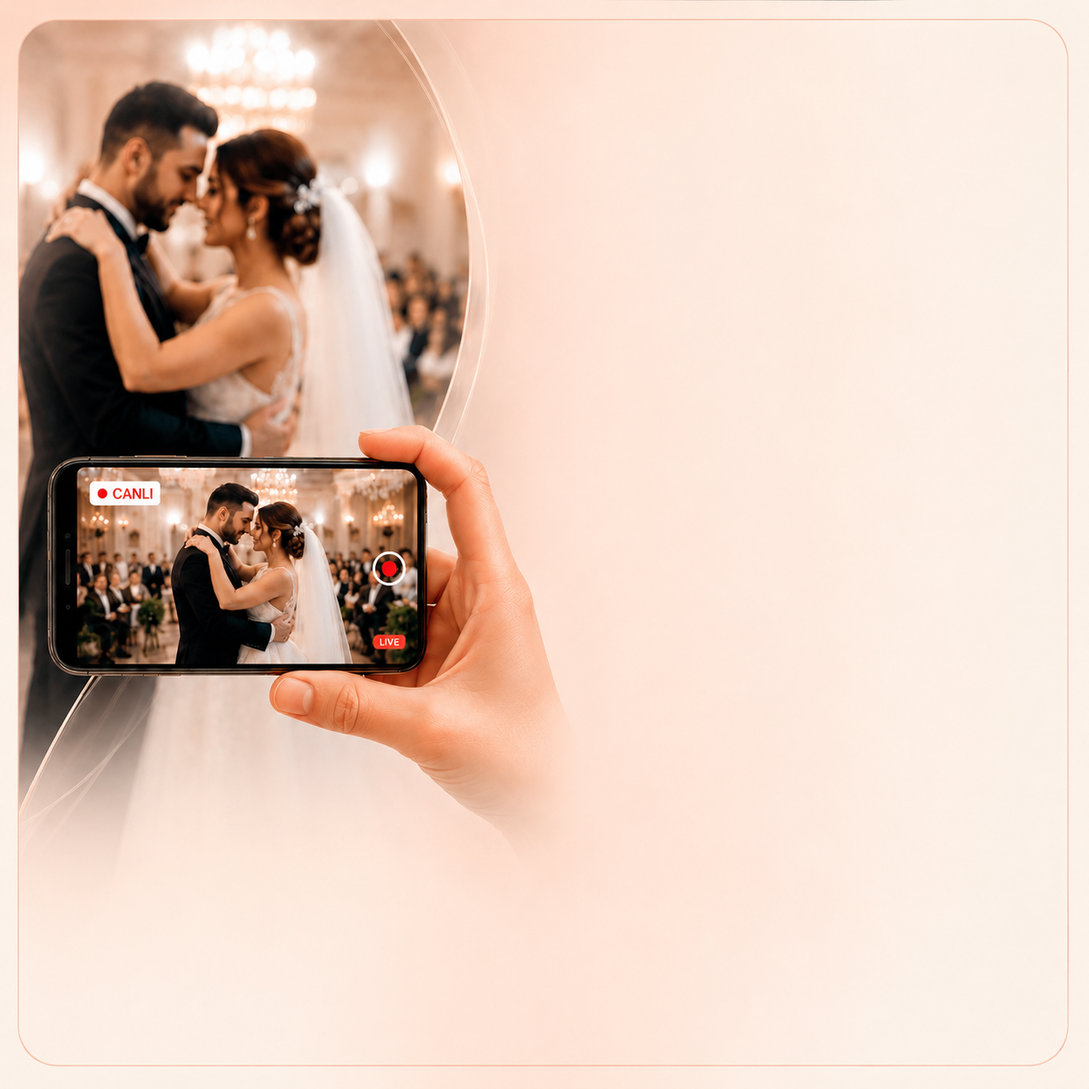
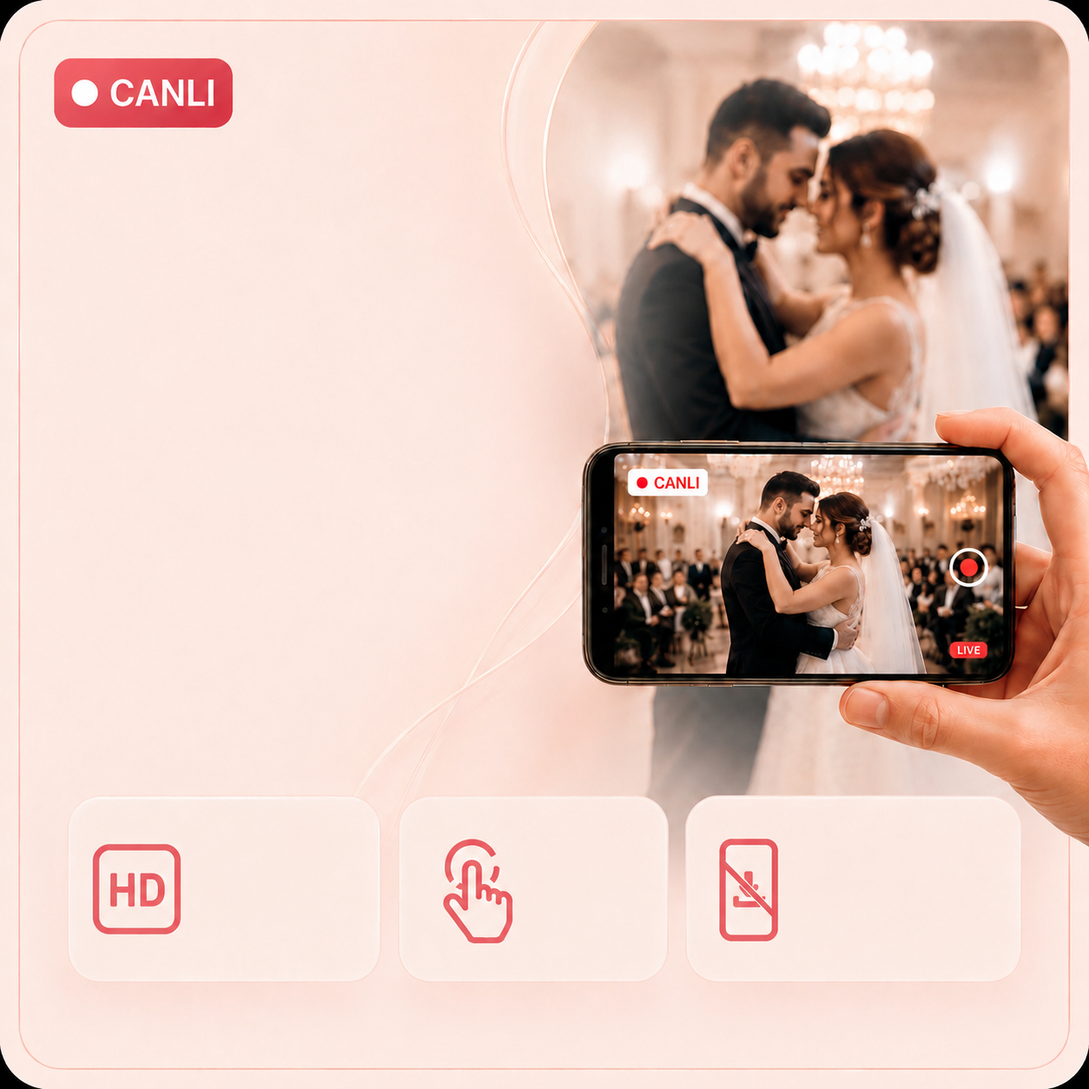
Adim 79: 3 reklam karti hibrit (bg+text) + welcome foto karti redesign + chat widget beyaz
- Canli Yayin / Tebrik / Album kartlari: kare bg PNG + sadece HTML yazi overlay,
  aspect-square + max-w-720 mx-auto, clamp() font ile pozisyon hassas hizali.
- Welcome modal (returning + first-time) foto karti: rose gradient bg, dashed
  buton, lock disclaimer - referans tasarima uygun.
- ChatWidget canli destek butonu: rose gradient -> beyaz pill, Elif yuvarlak +
  yesil online dot sag ust, koyu yazi + chevron arrow.

diff --git a/app/page.tsx b/app/page.tsx
@@ -264,39 +264,59 @@ export default function Home() {
       {/* ÖZELLİK KARTLARI - Altın Toplama + Nikah Albümü */}
       <section className="py-16">
         <div className="max-w-7xl mx-auto px-6 space-y-8">
-          {/* Canlı Yayın - reklam kartı (hibrit: PNG bg + HTML overlay) */}
-          <div className="relative rounded-3xl overflow-hidden" style={{ boxShadow: '0 16px 48px rgba(200,140,140,0.18), 0 4px 14px rgba(0,0,0,0.04)', border: '1px solid rgba(232,180,170,0.25)' }}>
-            {/* Mobil: kare bg (görsel sol, krem alan sağ) */}
-            <img src="/bg-canli-yayin.png" alt="" className="absolute inset-0 w-full h-full object-cover md:hidden pointer-events-none select-none" />
-            {/* Masaüstü: aynı bg, soldan görsel + sağa doğru krem alan uzayacak (object-left) */}
-            <img src="/bg-canli-yayin.png" alt="" className="absolute inset-0 w-full h-full object-cover hidden md:block pointer-events-none select-none" style={{ objectPosition: 'left center' }} />
+          {/* Canlı Yayın - reklam kartı (kare bg + sadece yazı overlay) */}
+          <div className="relative rounded-3xl overflow-hidden mx-auto w-full" style={{ aspectRatio: '1 / 1', maxWidth: '720px', boxShadow: '0 16px 48px rgba(200,140,140,0.18), 0 4px 14px rgba(0,0,0,0.04)', border: '1px solid rgba(232,180,170,0.25)' }}>
+            <img src="/bg-canli-yayin.png" alt="Canlı Yayın ile mutluluğunuzu paylaşın" className="absolute inset-0 w-full h-full object-cover pointer-events-none select-none" />
 
-            <div className="relative grid grid-cols-1 md:grid-cols-[44%_1fr] min-h-[360px] md:min-h-[300px]">
-              <div className="hidden md:block" />
-              <div className="p-5 md:py-10 md:pr-10 md:pl-8 flex flex-col justify-between min-h-[360px] md:min-h-[280px]">
-                <div className="pl-[46%] md:pl-0 pt-3 md:pt-1 text-right md:text-left">
-                  {/* CANLI pill */}
-                  <span className="inline-flex items-center gap-1.5 px-2.5 py-1 rounded-full text-[10px] md:text-[11px] font-bold mb-3 md:mb-4" style={{ background: '#C8686E', color: '#fff', boxShadow: '0 2px 6px rgba(200,104,110,0.35)' }}>
-                    <span className="inline-block w-1.5 h-1.5 rounded-full" style={{ background: '#fff', boxShadow: '0 0 0 3px rgba(255,255,255,0.35)' }} />
-                    CANLI
-                  </span>
-                  <h3 className="text-[26px] md:text-[40px] mb-0.5 md:mb-1 leading-[1.1]" style={{ fontFamily: 'var(--font-playfair)', color: '#C8686E', fontWeight: 600 }}>Canlı Yayın</h3>
-                  <h3 className="text-[26px] md:text-[40px] mb-4 md:mb-4 leading-[1.1]" style={{ fontFamily: 'var(--font-playfair)', color: '#2B2B2B', fontWeight: 600 }}>ile mutluluğunuzu paylaşın!</h3>
-                  <p className="text-[13px] md:text-[15px] leading-relaxed pl-[10%] md:pl-0 mb-3 md:mb-5" style={{ color: '#6E5A5A' }}>Düğününüzü veya Nikahınızı canlı yayınlayın, bu anı kimse kaçırmasın.</p>
+            {/* Heading + açıklama - sol üst (CANLI pill bg'de var) */}
+            <div className="absolute" style={{ top: '17%', left: '5.5%', width: '52%' }}>
+              <h3 className="leading-[1.05]" style={{ fontFamily: 'var(--font-playfair)', color: '#C8686E', fontWeight: 600, fontSize: 'clamp(22px, 5.4vw, 44px)' }}>Canlı Yayın</h3>
+              <h3 className="leading-[1.1] mt-1" style={{ fontFamily: 'var(--font-playfair)', color: '#1F1F1F', fontWeight: 600, fontSize: 'clamp(20px, 4.8vw, 38px)' }}>ile mutluluğunuzu paylaşın!</h3>
+              <p className="mt-3 leading-[1.55]" style={{ color: '#6E5A5A', fontSize: 'clamp(11px, 2.2vw, 16px)' }}>Düğününüzü veya Nikahınızı canlı yayınlayın, bu anı kimse kaçırmasın!</p>
+            </div>
+
+            {/* 3 badge yazıları - alt sıra (icon'lar bg'de baked) */}
+            <div className="absolute" style={{ bottom: '8.5%', left: '4.5%', right: '4.5%', height: '14%' }}>
+              <div className="grid grid-cols-3 gap-[2.5%] h-full">
+                <div className="flex items-center" style={{ paddingLeft: '32%' }}>
+                  <span className="font-semibold leading-[1.2]" style={{ color: '#5A4848', fontSize: 'clamp(9px, 1.9vw, 14px)' }}>Yüksek<br/>Kalite Yayın*</span>
                 </div>
-                <div>
-                  <div className="flex gap-1.5 md:gap-2 flex-wrap justify-end md:justify-start">
-                    {[
-                      { label: 'HD Yüksek Kalite*', icon: <svg className="w-3 h-3" fill="none" stroke="currentColor" viewBox="0 0 24 24"><path strokeLinecap="round" strokeLinejoin="round" strokeWidth={2.5} d="M9 12l2 2 4-4m6 2a9 9 0 11-18 0 9 9 0 0118 0z" /></svg> },
-                      { label: 'Tek tıkla Yayın', icon: <svg className="w-3 h-3" fill="none" stroke="currentColor" viewBox="0 0 24 24"><path strokeLinecap="round" strokeLinejoin="round" strokeWidth={2.5} d="M13 10V3L4 14h7v7l9-11h-7z" /></svg> },
-                      { label: 'Uygulama Gerekmez', icon: <svg className="w-3 h-3" fill="none" stroke="currentColor" viewBox="0 0 24 24"><path strokeLinecap="round" strokeLinejoin="round" strokeWidth={2.5} d="M9 12l2 2 4-4m6 2a9 9 0 11-18 0 9 9 0 0118 0z" /></svg> },
-                    ].map((b, i) => (
-                      <span key={i} className="inline-flex items-center gap-1.5 px-2.5 py-1.5 rounded-full text-[9px] md:text-[12px] font-semibold whitespace-nowrap" style={{ background: 'rgba(255,255,255,0.9)', color: '#C8686E', border: '1px solid rgba(200,104,110,0.18)', boxShadow: '0 2px 6px rgba(200,104,110,0.06)' }}>{b.icon}{b.label}</span>
-                    ))}
-                  </div>
-                  <p className="text-[9px] md:text-[10px] mt-2 md:mt-3 text-right md:text-left italic" style={{ color: '#9A8585' }}>*Yayın kalitesi internet bağlantı hızınıza bağlıdır.</p>
+                <div className="flex items-center" style={{ paddingLeft: '32%' }}>
+                  <span className="font-semibold leading-[1.2]" style={{ color: '#5A4848', fontSize: 'clamp(9px, 1.9vw, 14px)' }}>Tek tıkla<br/>Yayına Geç</span>
+                </div>
+                <div className="flex items-center" style={{ paddingLeft: '30%' }}>
+                  <span className="font-semibold leading-[1.18]" style={{ color: '#5A4848', fontSize: 'clamp(8px, 1.65vw, 12px)' }}>Davetlilerin<br/>uygulama indirmesi<br/>gerekmez</span>
                 </div>
               </div>
+            </div>
+
+            {/* Disclaimer - en alt */}
+            <div className="absolute" style={{ bottom: '2.2%', left: 0, right: 0 }}>
+              <p className="text-center italic" style={{ color: '#9A8585', fontSize: 'clamp(8px, 1.55vw, 11px)' }}>*Yayın kalitesi internet bağlantı hızınıza bağlıdır.</p>
+            </div>
+          </div>
+
+          {/* Tebrik Mesajları - reklam kartı (kare bg + sadece yazı overlay) */}
+          <div className="relative rounded-3xl overflow-hidden mx-auto w-full" style={{ aspectRatio: '1 / 1', maxWidth: '720px', boxShadow: '0 16px 48px rgba(200,140,140,0.18), 0 4px 14px rgba(0,0,0,0.04)', border: '1px solid rgba(232,180,170,0.25)' }}>
+            <img src="/bg-tebrik.png" alt="Tebrik mesajlarınızı kabul edin" className="absolute inset-0 w-full h-full object-cover pointer-events-none select-none" />
+
+            {/* Sol alan: zarf ikonu + heading + açıklama */}
+            <div className="absolute" style={{ top: '8%', left: '6%', width: '50%' }}>
+              {/* Zarf ikonu (beyaz daire) */}
+              <div className="flex items-center justify-center mb-3" style={{ width: 'clamp(36px, 9vw, 64px)', height: 'clamp(36px, 9vw, 64px)', background: '#fff', borderRadius: '999px', boxShadow: '0 4px 12px rgba(200,104,110,0.12)' }}>
+                <svg viewBox="0 0 24 24" fill="none" stroke="#C8686E" strokeLinecap="round" strokeLinejoin="round" style={{ width: 'clamp(18px, 4.5vw, 32px)', height: 'clamp(18px, 4.5vw, 32px)', strokeWidth: 1.8 }}>
+                  <rect x="3" y="6" width="18" height="13" rx="2" />
+                  <path d="M3 7l9 7 9-7" />
+                  <path d="M12 13.5c-.6-.7-1.6-.7-2 0-.5.7 0 1.6 1 2.2.7-.4 1.4-1.1 1.4-1.8 0-.3-.2-.6-.4-.4z" fill="#C8686E" stroke="none" />
+                </svg>
+              </div>
+              <h3 className="leading-[1.05]" style={{ fontFamily: 'var(--font-playfair)', color: '#1F1F1F', fontWeight: 600, fontSize: 'clamp(22px, 5.4vw, 44px)' }}>Tebrik</h3>
+              <h3 className="leading-[1.05]" style={{ fontFamily: 'var(--font-playfair)', color: '#E26B72', fontWeight: 600, fontSize: 'clamp(22px, 5.4vw, 44px)' }}>mesajlarınızı</h3>
+              <h3 className="leading-[1.05]" style={{ fontFamily: 'var(--font-playfair)', color: '#1F1F1F', fontWeight: 600, fontSize: 'clamp(22px, 5.4vw, 44px)' }}>kabul edin !</h3>
+              <div className="mt-3 mb-4" style={{ width: 'clamp(38px, 9vw, 64px)', height: '2px', background: '#E26B72', borderRadius: '2px' }} />
+              <p className="leading-[1.6]" style={{ color: '#7A6B6B', fontSize: 'clamp(11px, 2.1vw, 15px)' }}>
+                Canlı yayınınızı izleyen davetliler Video Kaydı, Ses kaydı veya Yazılı Mesaj yöntemlerinden biri ile size tebrik mesajı iletsin.
+              </p>
             </div>
           </div>
 
@@ -326,47 +346,37 @@ export default function Home() {
             </div>
           </div>
 
-          {/* Nikah Albümü - kart (dikey, 1 sütun) */}
-          <div className="relative rounded-3xl overflow-hidden" style={{ boxShadow: '0 16px 48px rgba(200,140,140,0.16), 0 4px 14px rgba(0,0,0,0.04)', border: '1px solid rgba(232,180,170,0.25)' }}>
-            <img src="/nikah-albumu-mobil.png" alt="" className="absolute inset-0 w-full h-full object-cover md:hidden pointer-events-none select-none" />
-            <img src="/nikah-albumu-masaustu.png" alt="" className="absolute inset-0 w-full h-full object-cover hidden md:block pointer-events-none select-none" />
-            <div className="relative px-8 pt-14 pb-10 md:px-10 md:pt-14 md:pb-10 flex flex-col items-center text-center">
-              {/* Editorial Luxury Title — sade (açıklama resimlerin altına taşındı) */}
-              <div className="mb-4 text-center">
-                <p className="uppercase" style={{ color: '#C97C82', fontSize: '19px', fontWeight: 500, letterSpacing: '4px', fontFamily: 'var(--font-geist-sans), Inter, sans-serif', marginBottom: '-2px' }}>MUTLU</p>
-                <h3 style={{ color: '#2B2B2B', fontFamily: 'var(--font-playfair), Georgia, serif', fontWeight: 500, letterSpacing: '0.3px', lineHeight: 1.05, textShadow: '0 2px 10px rgba(0,0,0,0.05)' }}><span className="md:hidden" style={{ fontSize: '34px' }}>Kareler</span><span className="hidden md:inline" style={{ fontSize: '44px' }}>Kareler</span></h3>
-                <div className="mx-auto mt-3" style={{ width: 60, height: 1, background: 'linear-gradient(90deg, transparent, #E8B4B8, transparent)' }} />
-              </div>
-              {/* Resimler: hafif daha aşağı (Y -22 → -8 / -28 → -16) + açıklama yakın */}
-              <div className="relative w-full flex items-center justify-center mb-1" style={{ perspective: '1000px', height: 230 }}>
-                <div className="absolute top-1/2 left-1/2" style={{ transform: 'translate(-50%, -50%) translateX(-82px) translateY(-8px) translateZ(-30px) rotateY(38deg)', zIndex: 1 }}>
-                  <div className="bg-white p-1.5 rounded-lg" style={{ boxShadow: '0 6px 16px rgba(80,60,40,0.18)' }}>
-                    <img src="/wedding1.jpg" alt="" className="block object-cover rounded-md w-[103px] h-[124px] md:w-[120px] md:h-[140px]" />
-                  </div>
-                </div>
-                <div className="absolute top-1/2 left-1/2" style={{ transform: 'translate(-50%, -50%) translateX(82px) translateY(-8px) translateZ(-30px) rotateY(-38deg)', zIndex: 1 }}>
-                  <div className="bg-white p-1.5 rounded-lg" style={{ boxShadow: '0 6px 16px rgba(80,60,40,0.18)' }}>
-                    <img src="/wedding3.jpg" alt="" className="block object-cover rounded-md w-[103px] h-[124px] md:w-[120px] md:h-[140px]" />
-                  </div>
-                </div>
-                <div className="absolute top-1/2 left-1/2" style={{ transform: 'translate(-50%, -50%) translateY(-16px) translateZ(60px)', zIndex: 3 }}>
-                  <div className="bg-white p-1.5 rounded-lg" style={{ boxShadow: '0 16px 36px rgba(80,60,40,0.32), 0 4px 12px rgba(0,0,0,0.10)' }}>
-                    <img src="/wedding2.jpg" alt="" className="block object-cover rounded-md w-[132px] h-[159px] md:w-[150px] md:h-[175px]" />
-                  </div>
-                </div>
-              </div>
-              {/* Açıklama resimlerin altında — yakın */}
-              <p className="text-[13px] md:text-[15px] leading-relaxed mb-3 max-w-2xl text-center" style={{ color: '#6E5A5A' }}>
-                Online Fotoğraf Albümünüzü oluşturun, siz veya bu özel günde yanınızdaki sevdikleriniz fotoğraflarını yüklesin. Tüm Fotoğraflarınızı kolayca tek bir yerde toplayın tek tıkla hepsini indirin!
+          {/* Fotoğraf Albümü - reklam kartı (kare bg + sadece yazı overlay) */}
+          <div className="relative rounded-3xl overflow-hidden mx-auto w-full" style={{ aspectRatio: '1 / 1', maxWidth: '720px', boxShadow: '0 16px 48px rgba(200,140,140,0.18), 0 4px 14px rgba(0,0,0,0.04)', border: '1px solid rgba(232,180,170,0.25)' }}>
+            <img src="/bg-album.png" alt="Fotoğraf albümü oluşturun" className="absolute inset-0 w-full h-full object-cover pointer-events-none select-none" />
+
+            {/* Heading - üst orta */}
+            <div className="absolute" style={{ top: '11%', left: '0', right: '0', textAlign: 'center' }}>
+              <h3 className="leading-[1.1]" style={{ fontFamily: 'var(--font-playfair)', fontWeight: 600, fontSize: 'clamp(20px, 4.6vw, 38px)' }}>
+                <span style={{ color: '#C8686E' }}>Fotoğraf</span>{' '}
+                <span style={{ color: '#1F1F1F' }}>albümü oluşturun</span>
+              </h3>
+            </div>
+
+            {/* Açıklama - resimlerin altında, ortalanmış */}
+            <div className="absolute" style={{ top: '63%', left: '8%', right: '8%', textAlign: 'center' }}>
+              <p className="leading-[1.6]" style={{ color: '#6E5A5A', fontSize: 'clamp(10px, 2vw, 15px)' }}>
+                Online oluşturacağınız fotoğraf albümünüze ister siz, isterseniz yanınızdaki davetlileriniz gün boyu çekilen fotoğrafları yüklesin. Tüm fotoğraflarınızı tek bir yerde toplayın ve uygulama üzerinden kolayca indirin.
               </p>
-              {/* Badges: mobilde sol alt dikey, masaüstünde ortada yan yana */}
-              <div className="flex flex-col items-start md:flex-row md:items-center md:justify-center gap-2 self-start md:self-auto">
-                {[
-                  { label: 'Birlikte Yükleyin', icon: <svg className="w-3 h-3" fill="none" stroke="currentColor" viewBox="0 0 24 24"><path strokeLinecap="round" strokeLinejoin="round" strokeWidth={2.5} d="M17 20h5v-2a3 3 0 00-5.356-1.857M17 20H7m10 0v-2c0-.656-.126-1.283-.356-1.857M7 20H2v-2a3 3 0 015.356-1.857M7 20v-2c0-.656.126-1.283.356-1.857m0 0a5.002 5.002 0 019.288 0M15 7a3 3 0 11-6 0 3 3 0 016 0zm6 3a2 2 0 11-4 0 2 2 0 014 0zM7 10a2 2 0 11-4 0 2 2 0 014 0z" /></svg> },
-                  { label: 'Tek Yerde Toplayın', icon: <svg className="w-3 h-3" fill="none" stroke="currentColor" viewBox="0 0 24 24"><path strokeLinecap="round" strokeLinejoin="round" strokeWidth={2.5} d="M19 11H5m14 0a2 2 0 012 2v6a2 2 0 01-2 2H5a2 2 0 01-2-2v-6a2 2 0 012-2m14 0V9a2 2 0 00-2-2M5 11V9a2 2 0 012-2m0 0V5a2 2 0 012-2h6a2 2 0 012 2v2M7 7h10" /></svg> },
-                ].map((b, i) => (
-                  <span key={i} className="inline-flex items-center gap-1.5 px-2.5 py-1.5 rounded-full text-[10px] md:text-[12px] font-semibold whitespace-nowrap" style={{ background: 'rgba(255,255,255,0.85)', color: '#C8686E', border: '1px solid rgba(200,104,110,0.18)', boxShadow: '0 2px 6px rgba(200,104,110,0.06)' }}>{b.icon}{b.label}</span>
-                ))}
+            </div>
+
+            {/* 3 badge yazıları - alt sıra (icon'lar bg'de baked) */}
+            <div className="absolute" style={{ bottom: '5%', left: '4%', right: '4%', height: '10%' }}>
+              <div className="grid grid-cols-3 gap-[2.5%] h-full">
+                <div className="flex items-center" style={{ paddingLeft: '24%' }}>
+                  <span className="font-medium leading-[1.2]" style={{ color: '#2B2B2B', fontSize: 'clamp(10px, 2.05vw, 16px)' }}>Birlikte yükleyin</span>
+                </div>
+                <div className="flex items-center" style={{ paddingLeft: '24%' }}>
+                  <span className="font-medium leading-[1.2]" style={{ color: '#2B2B2B', fontSize: 'clamp(10px, 2.05vw, 16px)' }}>Tek yerde toplayın</span>
+                </div>
+                <div className="flex items-center" style={{ paddingLeft: '24%' }}>
+                  <span className="font-medium leading-[1.2]" style={{ color: '#2B2B2B', fontSize: 'clamp(10px, 2.05vw, 16px)' }}>Kolayca indirin</span>
+                </div>
               </div>
             </div>
           </div>

diff --git a/app/canli/[slug]/page.tsx b/app/canli/[slug]/page.tsx
@@ -1000,28 +1000,28 @@ export default function WatchPage() {
             <div className="flex-1 h-px bg-gray-200" />
           </div>
 
-          {/* Anı Paylaş kartı — Nikah/Düğün dinamik */}
-          <div className="rounded-2xl p-4 relative overflow-hidden" style={{ background: 'rgba(255,255,255,0.72)', border: '1px solid rgba(220,150,160,0.20)', boxShadow: '0 10px 25px rgba(200,100,120,0.08)' }}>
+          {/* Anı Paylaş kartı — referans tasarım (gölge + dashed buton + lock disclaimer) */}
+          <div className="rounded-2xl p-4 relative overflow-hidden" style={{ background: 'linear-gradient(180deg, #FFF5F4 0%, #FFEEEC 100%)', border: '1px solid rgba(220,150,160,0.20)', boxShadow: '0 10px 28px rgba(200,104,110,0.12), 0 3px 10px rgba(200,104,110,0.08)' }}>
             <div className="flex items-start gap-3">
-              <div className="relative flex-shrink-0">
-                {/* Custom 'Resim ekle' icon 3 (kullanıcı yeni versiyon istedi) */}
-                <Image src="/resim-ekle-icon-3.png" alt="" width={56} height={56} className="w-14 h-14 object-contain" />
+              <div className="relative flex-shrink-0 w-14 h-14 rounded-full flex items-center justify-center" style={{ background: 'linear-gradient(135deg, #F8C4C2, #ECA1A5)', boxShadow: '0 6px 14px rgba(200,104,110,0.20)' }}>
+                <Image src="/resim-ekle-icon-3.png" alt="" width={42} height={42} className="object-contain" />
               </div>
               <div className="flex-1 text-left">
-                <div className="flex items-center gap-1.5 mb-0.5">
-                  <h4 className="font-bold text-[14px]" style={{ color: '#C8686E' }}>{event.event_type === 'dugun' ? 'Düğündeysen Anı Paylaş' : 'Nikahtaysan Anı Paylaş'}</h4>
-                  {/* Foto (kamera) + Paylaş (Web Share / iOS share) ikonları */}
-                  <svg className="w-3.5 h-3.5" style={{ color: '#C8686E' }} fill="none" stroke="currentColor" viewBox="0 0 24 24"><path strokeLinecap="round" strokeLinejoin="round" strokeWidth={2} d="M3 9a2 2 0 012-2h.93a2 2 0 001.664-.89l.812-1.22A2 2 0 0110.07 4h3.86a2 2 0 011.664.89l.812 1.22A2 2 0 0018.07 7H19a2 2 0 012 2v9a2 2 0 01-2 2H5a2 2 0 01-2-2V9z" /><circle cx="12" cy="13" r="3.2" /></svg>
-                  {/* iOS-style share icon (üç nokta-arrow) */}
-                  <svg className="w-3.5 h-3.5" style={{ color: '#C8686E' }} fill="none" stroke="currentColor" viewBox="0 0 24 24"><path strokeLinecap="round" strokeLinejoin="round" strokeWidth={2} d="M8.684 13.342C8.886 12.938 9 12.482 9 12c0-.482-.114-.938-.316-1.342m0 2.684a3 3 0 110-2.684m0 2.684l6.632 3.316m-6.632-6l6.632-3.316m0 0a3 3 0 105.367-2.684 3 3 0 00-5.367 2.684zm0 9.316a3 3 0 105.368 2.684 3 3 0 00-5.368-2.684z" /></svg>
+                <div className="flex items-center gap-1.5 mb-1">
+                  <h4 className="font-bold text-[15px]" style={{ color: '#C8686E' }}>Bu Günden Bir Kare Paylaş</h4>
+                  <svg className="w-4 h-4" fill="none" stroke="#C8686E" strokeWidth="2" viewBox="0 0 24 24"><path strokeLinecap="round" strokeLinejoin="round" d="M4.318 6.318a4.5 4.5 0 016.364 0L12 7.636l1.318-1.318a4.5 4.5 0 116.364 6.364L12 20.364l-7.682-7.682a4.5 4.5 0 010-6.364z" /></svg>
                 </div>
-                <p className="text-[11.5px] text-gray-600 leading-snug">{event.event_type === 'dugun' ? 'Düğünden Fotoğrafların varsa buradan kolayca çiftin albümüne yükleyebilirsin.' : 'Nikahtan Fotoğrafların varsa buradan kolayca çiftin albümüne yükleyebilirsin.'}</p>
+                <p className="text-[12.5px] leading-snug" style={{ color: '#6B5A5A' }}>{event.event_type === 'dugun' ? 'Düğündeysen' : 'Nikahtaysan'} çektiğin fotoğrafları çiftin özel albümüne ekleyebilirsin.</p>
               </div>
             </div>
-            <button onClick={() => setShowPhotoUpload(true)} className="w-full mt-3 py-2.5 rounded-xl font-semibold flex items-center justify-center gap-2 text-[13px] transition-all hover:scale-[1.01]" style={{ background: '#fff', color: '#C8686E', border: '1.5px solid rgba(200,104,110,0.22)', boxShadow: '0 3px 10px rgba(200,104,110,0.10)' }}>
-              <svg className="w-4 h-4" fill="none" stroke="currentColor" viewBox="0 0 24 24"><path strokeLinecap="round" strokeLinejoin="round" strokeWidth={2} d="M7 16a4 4 0 01-.88-7.903A5 5 0 1115.9 6L16 6a5 5 0 011 9.9M15 13l-3-3m0 0l-3 3m3-3v12" /></svg>
+            <button onClick={() => setShowPhotoUpload(true)} className="w-full mt-3.5 py-3 rounded-xl font-semibold flex items-center justify-center gap-2 text-[14px] transition-all hover:scale-[1.01]" style={{ background: 'rgba(255,250,250,0.7)', color: '#C8686E', border: '1.5px dashed rgba(200,104,110,0.45)' }}>
+              <svg className="w-5 h-5" fill="none" stroke="currentColor" strokeWidth="1.8" viewBox="0 0 24 24"><path strokeLinecap="round" strokeLinejoin="round" d="M3 16.5v2.25A2.25 2.25 0 005.25 21h13.5A2.25 2.25 0 0021 18.75V16.5m-13.5-9L12 3m0 0l4.5 4.5M12 3v13.5" /></svg>
               Fotoğraf Yükle
             </button>
+            <div className="flex items-center justify-center gap-1.5 mt-2.5">
+              <svg className="w-3.5 h-3.5" fill="none" stroke="#5A4F4F" strokeWidth="1.8" viewBox="0 0 24 24"><path strokeLinecap="round" strokeLinejoin="round" d="M16.5 10.5V6.75a4.5 4.5 0 10-9 0v3.75m-.75 11.25h10.5a2.25 2.25 0 002.25-2.25v-6.75a2.25 2.25 0 00-2.25-2.25H6.75a2.25 2.25 0 00-2.25 2.25v6.75a2.25 2.25 0 002.25 2.25z" /></svg>
+              <span className="text-[11.5px]" style={{ color: '#5A4F4F' }}>Yüklenen fotoğraflar çiftin özel albümüne eklenir.</span>
+            </div>
           </div>
         </div>
 
@@ -1172,29 +1172,28 @@ export default function WatchPage() {
             <div className="flex-1 h-px bg-gray-200" />
           </div>
 
-          {/* Anı Paylaş kartı — neredeyse beyaz rose */}
-          <div className="rounded-2xl p-4 relative overflow-hidden" style={{ background: 'linear-gradient(165deg, #FFFEFE 0%, #FFF8F9 100%)', border: '1px solid rgba(200,104,110,0.12)' }}>
+          {/* Anı Paylaş kartı — referans tasarım (gölge + dashed buton + lock disclaimer) */}
+          <div className="rounded-2xl p-4 relative overflow-hidden" style={{ background: 'linear-gradient(180deg, #FFF5F4 0%, #FFEEEC 100%)', border: '1px solid rgba(220,150,160,0.20)', boxShadow: '0 10px 28px rgba(200,104,110,0.12), 0 3px 10px rgba(200,104,110,0.08)' }}>
             <div className="flex items-start gap-3">
-              <div className="relative flex-shrink-0">
-                <div className="w-14 h-14 rounded-full flex items-center justify-center" style={{ background: 'linear-gradient(135deg, #E08284, #D17075, #C86068)', boxShadow: '0 6px 16px rgba(200,104,110,0.3)' }}>
-                  <svg className="w-9 h-9 text-white" fill="none" stroke="currentColor" viewBox="0 0 24 24"><path strokeLinecap="round" strokeLinejoin="round" strokeWidth={1.8} d="M4 16l4.586-4.586a2 2 0 012.828 0L16 16m-2-2l1.586-1.586a2 2 0 012.828 0L20 14m-6-6h.01M6 20h12a2 2 0 002-2V6a2 2 0 00-2-2H6a2 2 0 00-2 2v12a2 2 0 002 2z" /></svg>
-                </div>
-                <div className="absolute -top-1 -right-1 w-5 h-5 rounded-full bg-white flex items-center justify-center shadow-md">
-                  <svg className="w-3 h-3" fill="#C8686E" viewBox="0 0 24 24"><path d="M12 21.35l-1.45-1.32C5.4 15.36 2 12.28 2 8.5 2 5.42 4.42 3 7.5 3c1.74 0 3.41.81 4.5 2.09C13.09 3.81 14.76 3 16.5 3 19.58 3 22 5.42 22 8.5c0 3.78-3.4 6.86-8.55 11.54L12 21.35z" /></svg>
-                </div>
+              <div className="relative flex-shrink-0 w-14 h-14 rounded-full flex items-center justify-center" style={{ background: 'linear-gradient(135deg, #F8C4C2, #ECA1A5)', boxShadow: '0 6px 14px rgba(200,104,110,0.20)' }}>
+                <Image src="/resim-ekle-icon-3.png" alt="" width={42} height={42} className="object-contain" />
               </div>
               <div className="flex-1 text-left">
                 <div className="flex items-center gap-1.5 mb-1">
-                  <h4 className="font-bold text-base" style={{ color: '#C8686E' }}>Nikahtaysan Anı Paylaş</h4>
-                  <span className="text-base">✨</span>
+                  <h4 className="font-bold text-[15px]" style={{ color: '#C8686E' }}>Bu Günden Bir Kare Paylaş</h4>
+                  <svg className="w-4 h-4" fill="none" stroke="#C8686E" strokeWidth="2" viewBox="0 0 24 24"><path strokeLinecap="round" strokeLinejoin="round" d="M4.318 6.318a4.5 4.5 0 016.364 0L12 7.636l1.318-1.318a4.5 4.5 0 116.364 6.364L12 20.364l-7.682-7.682a4.5 4.5 0 010-6.364z" /></svg>
                 </div>
-                <p className="text-xs text-gray-600 leading-snug">Nikahtan fotoğrafların varsa buradan çiftin albümüne yükleyebilirsin <span style={{ color: '#C8686E' }}>♥</span></p>
+                <p className="text-[12.5px] leading-snug" style={{ color: '#6B5A5A' }}>{event.event_type === 'dugun' ? 'Düğündeysen' : 'Nikahtaysan'} çektiğin fotoğrafları çiftin özel albümüne ekleyebilirsin.</p>
               </div>
             </div>
-            <button onClick={() => setShowPhotoUpload(true)} className="w-full mt-3 py-3 rounded-xl font-semibold flex items-center justify-center gap-2 text-sm transition-all hover:scale-[1.01]" style={{ background: '#fff', color: '#C8686E', border: '1.5px solid rgba(200,104,110,0.25)', boxShadow: '0 4px 14px rgba(200,104,110,0.12)' }}>
-              <svg className="w-5 h-5" fill="none" stroke="currentColor" viewBox="0 0 24 24"><path strokeLinecap="round" strokeLinejoin="round" strokeWidth={2} d="M7 16a4 4 0 01-.88-7.903A5 5 0 1115.9 6L16 6a5 5 0 011 9.9M15 13l-3-3m0 0l-3 3m3-3v12" /></svg>
+            <button onClick={() => setShowPhotoUpload(true)} className="w-full mt-3.5 py-3 rounded-xl font-semibold flex items-center justify-center gap-2 text-[14px] transition-all hover:scale-[1.01]" style={{ background: 'rgba(255,250,250,0.7)', color: '#C8686E', border: '1.5px dashed rgba(200,104,110,0.45)' }}>
+              <svg className="w-5 h-5" fill="none" stroke="currentColor" strokeWidth="1.8" viewBox="0 0 24 24"><path strokeLinecap="round" strokeLinejoin="round" d="M3 16.5v2.25A2.25 2.25 0 005.25 21h13.5A2.25 2.25 0 0021 18.75V16.5m-13.5-9L12 3m0 0l4.5 4.5M12 3v13.5" /></svg>
               Fotoğraf Yükle
             </button>
+            <div className="flex items-center justify-center gap-1.5 mt-2.5">
+              <svg className="w-3.5 h-3.5" fill="none" stroke="#5A4F4F" strokeWidth="1.8" viewBox="0 0 24 24"><path strokeLinecap="round" strokeLinejoin="round" d="M16.5 10.5V6.75a4.5 4.5 0 10-9 0v3.75m-.75 11.25h10.5a2.25 2.25 0 002.25-2.25v-6.75a2.25 2.25 0 00-2.25-2.25H6.75a2.25 2.25 0 00-2.25 2.25v6.75a2.25 2.25 0 002.25 2.25z" /></svg>
+              <span className="text-[11.5px]" style={{ color: '#5A4F4F' }}>Yüklenen fotoğraflar çiftin özel albümüne eklenir.</span>
+            </div>
           </div>
         </div>
 

diff --git a/components/ChatWidget.tsx b/components/ChatWidget.tsx
@@ -376,17 +376,17 @@ export default function ChatWidget({ userEmail = "", userName = "", embedded = f
       {!open && (
         <div
           className="fixed right-0 flex items-stretch z-[9999]"
-          style={{ bottom: 36, background: "linear-gradient(135deg, #E08284, #D17075, #C86068)", boxShadow: "0 14px 34px rgba(200,104,110,0.48)", borderTopLeftRadius: 16, borderBottomLeftRadius: 16 }}
+          style={{ bottom: 36, background: "#fff", boxShadow: "0 14px 36px rgba(60,40,40,0.14), 0 4px 14px rgba(200,104,110,0.10)", borderTopLeftRadius: 999, borderBottomLeftRadius: 999, border: '1px solid rgba(255,200,200,0.30)' }}
           aria-label="Canlı destek"
         >
           {/* Arrow tab — solda, her zaman görünür */}
           <button
             onClick={() => setIsCollapsed(c => !c)}
-            className="flex items-center justify-center text-white"
-            style={{ width: 25, paddingLeft: 5, paddingRight: 2 }}
+            className="flex items-center justify-center"
+            style={{ width: 22, paddingLeft: 8, paddingRight: 2, color: '#C8686E' }}
             aria-label={isCollapsed ? "Canlı Destek aç" : "Kapat"}
           >
-            <svg className={`w-[18px] h-[18px] transition-transform duration-300 ${isCollapsed ? '' : 'rotate-180'}`} fill="none" stroke="currentColor" viewBox="0 0 24 24">
+            <svg className={`w-[16px] h-[16px] transition-transform duration-300 ${isCollapsed ? '' : 'rotate-180'}`} fill="none" stroke="currentColor" viewBox="0 0 24 24">
               <path strokeLinecap="round" strokeLinejoin="round" strokeWidth={2.5} d="M15 19l-7-7 7-7" />
             </svg>
           </button>
@@ -394,21 +394,21 @@ export default function ChatWidget({ userEmail = "", userName = "", embedded = f
           {/* Full button — slide collapse (sağa kapanır) */}
           <div
             className="overflow-hidden transition-all duration-500 ease-out"
-            style={{ maxWidth: isCollapsed ? 0 : 196, opacity: isCollapsed ? 0 : 1 }}
+            style={{ maxWidth: isCollapsed ? 0 : 200, opacity: isCollapsed ? 0 : 1 }}
           >
             <button
               onClick={() => setOpen(true)}
-              className="flex items-center gap-2 pl-1 pr-3.5 py-2 text-white whitespace-nowrap"
+              className="flex items-center gap-2.5 pl-1.5 pr-4 py-1.5 whitespace-nowrap"
             >
               <span className="relative">
-                <span className="block w-[46px] h-[46px] rounded-xl overflow-hidden border-2 border-white/70 bg-white">
+                <span className="block w-[44px] h-[44px] rounded-full overflow-hidden bg-white" style={{ boxShadow: '0 2px 8px rgba(200,104,110,0.18)' }}>
                   <img src="/elif-avatar.png" alt="Elif" className="w-full h-full object-cover" />
                 </span>
-                <span className="absolute -bottom-0.5 -right-0.5 w-3 h-3 bg-green-400 rounded-full border-2 border-white" />
+                <span className="absolute -top-0.5 -right-0.5 w-3 h-3 bg-green-500 rounded-full border-2 border-white" />
               </span>
-              <span className="flex flex-col items-start leading-[1.05]">
-                <span className="text-[15px] font-bold">Canlı</span>
-                <span className="text-[15px] font-bold">Destek</span>
+              <span className="flex items-center gap-1.5">
+                <span className="text-[15px] font-bold" style={{ color: '#2B2B2B' }}>Canlı Destek</span>
+                <svg className="w-4 h-4" fill="none" stroke="#9A8585" strokeWidth="2.5" viewBox="0 0 24 24"><path strokeLinecap="round" strokeLinejoin="round" d="M9 5l7 7-7 7" /></svg>
               </span>
             </button>
           </div>
